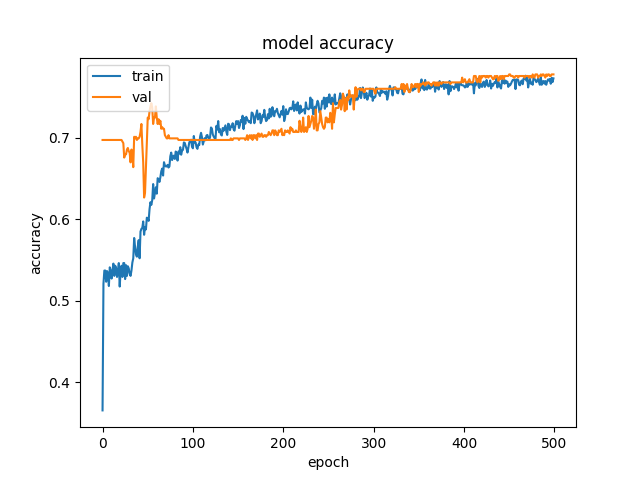
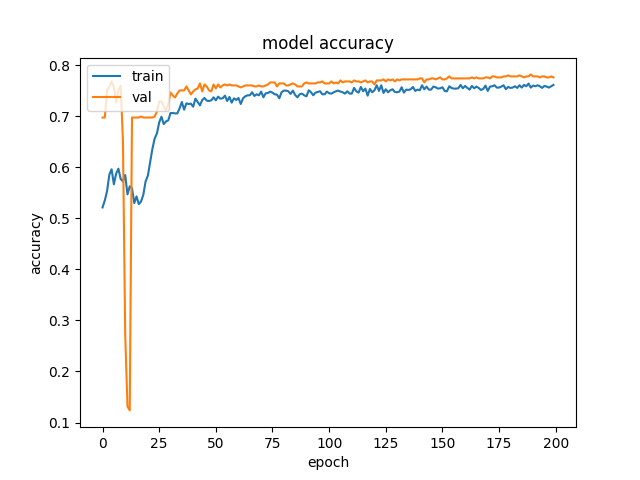
DNN configure

diff --git a/Conv1D.py b/Conv1D.py
@@ -29,16 +29,22 @@ def load_data(dataset):
 
 def conv1D_scr(input_shape, num_class):
     model = keras.Sequential()
-    model.add(layers.Conv1D(32, 7, input_shape=input_shape, activation='relu', padding='same'))
-    model.add(layers.MaxPool1D(3))
-    model.add(layers.Dropout(0.5))
 
-    model.add(layers.Conv1D(32, 7, activation='relu', padding='same'))
-    model.add(layers.MaxPool1D(3))
+    model.add(layers.Conv1D(filters=32, kernel_size=3, activation='relu', input_shape=input_shape, padding='same'))
+    model.add(layers.Conv1D(filters=32, kernel_size=3, activation='relu'))
     model.add(layers.Dropout(0.5))
+    model.add(layers.MaxPooling1D(pool_size=2))
 
-    model.add(layers.GlobalAvgPool1D())
+    model.add(layers.Conv1D(filters=32, kernel_size=3, activation='relu'))
+    model.add(layers.Dropout(0.5))
+    model.add(layers.MaxPooling1D(pool_size=2))
+
+    model.add(layers.Flatten())
+    model.add(layers.Dense(100, activation='relu'))
+    model.add(layers.Dropout(0.3))
+
     model.add(layers.Dense(num_class, activation='softmax'))
+    model.compile(loss='categorical_crossentropy', optimizer='adam', metrics=['accuracy'])
 
     print(model.summary())
 
